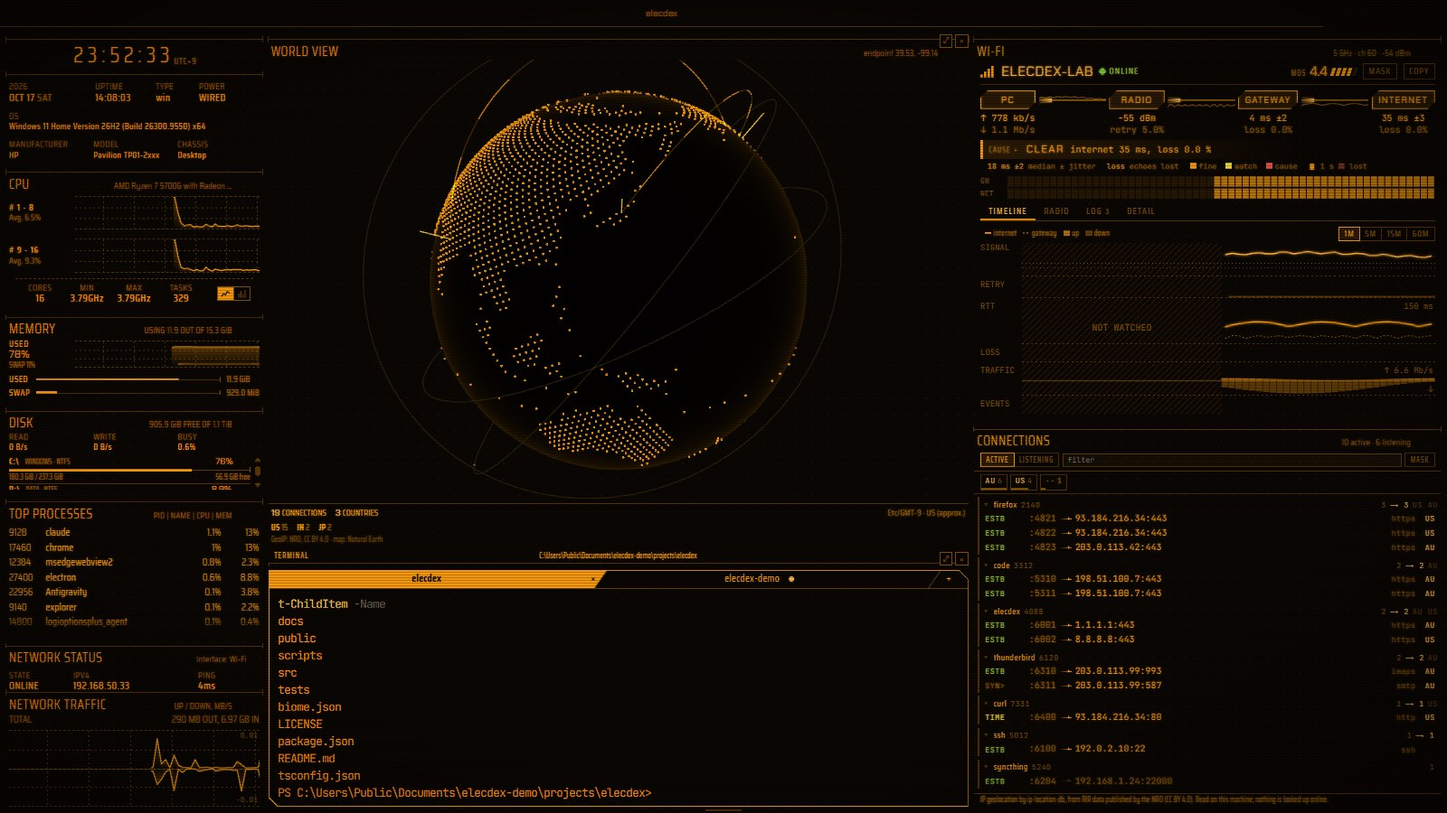
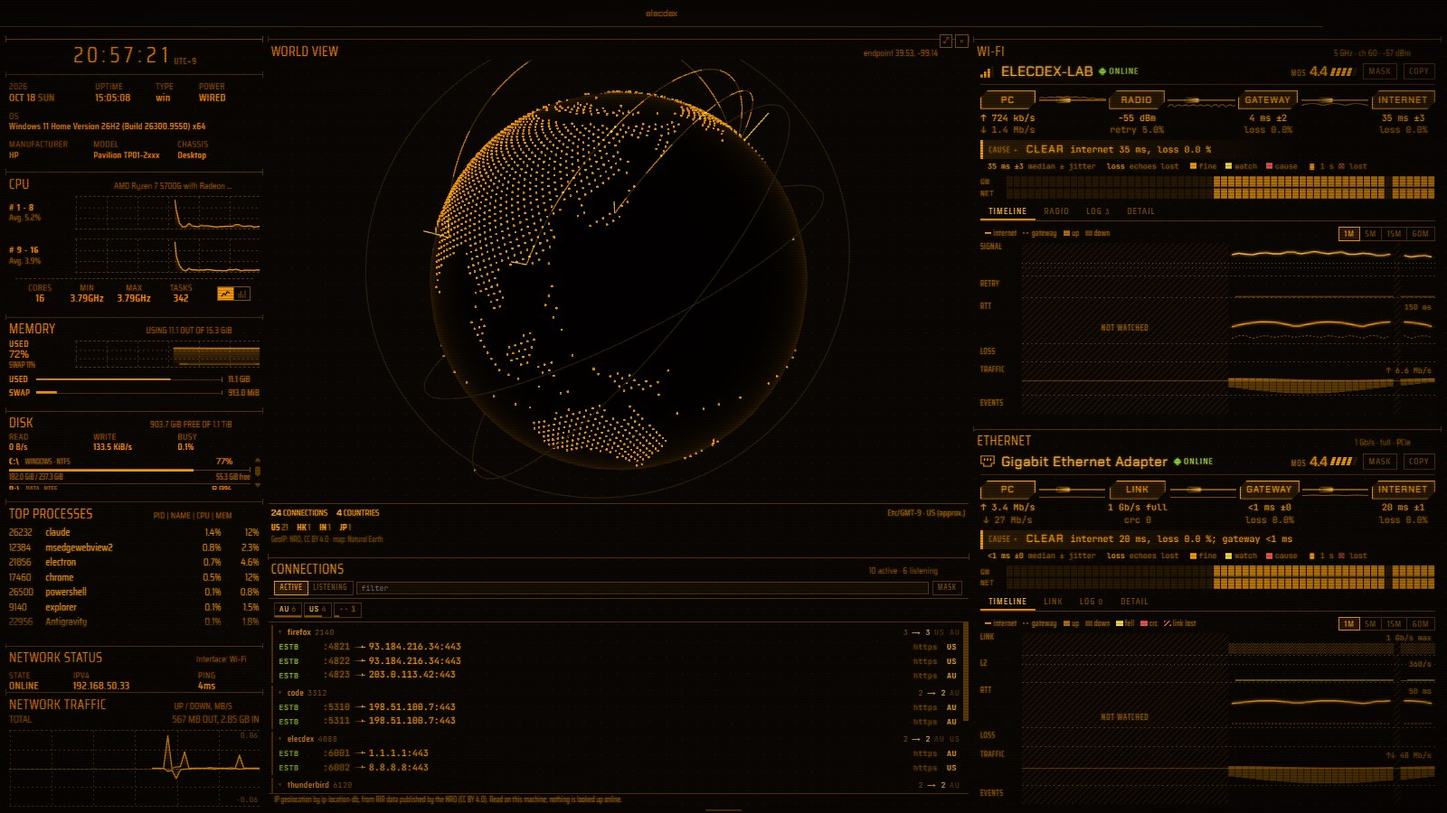
feat(layout): network and cockpit show the Ethernet pane under Wi-Fi / network と cockpit で Wi-Fi の下に Ethernet ペインを置く
The network preset now puts the socket table under the globe, where the shells were, and the Ethernet pane under Wi-Fi, where the socket table was: a preset with no shell. The cockpit preset's right column is Wi-Fi over Ethernet instead of the world view over Wi-Fi. The README's network, cockpit and layouts shots are taken again, the three READMEs and the design notes say so, and the screenshot and demo takes run a made-up wired link so nothing of this machine's adapters is read. / network プリセットは、地球儀の下のシェルの場所にソケットの一覧を、ソケットの一覧の場所に Wi-Fi の下の Ethernet ペインを置く。シェルのないプリセットになる。cockpit の右列は world view と Wi-Fi から Wi-Fi と Ethernet に替えた。README の network・cockpit・LAYOUTS のスクリーンショットを撮り直し、3 つの README と設計書を合わせ、スクリーンショットとデモの撮影ではこの機械のアダプタを読まないよう架空の有線を使う。

diff --git a/src/shared/layout-presets.ts b/src/shared/layout-presets.ts
@@ -62,9 +62,6 @@ function withSystemColumn(stage: LayoutNode[], shares: number[]): LayoutNode {
   )
 }
 
-const shells = (count: number): LayoutNode =>
-  tabs(Array.from({ length: count }, () => pane('terminal')))
-
 export const LAYOUT_PRESETS: readonly LayoutPreset[] = [
   {
     id: 'standard',
@@ -73,17 +70,18 @@ export const LAYOUT_PRESETS: readonly LayoutPreset[] = [
     build: defaultLayoutNode,
   },
   {
-    // The globe over the shells, two to one, in three fifths of the stage; beside
-    // them the Wi-Fi pane over the socket table, half and half (user decision
-    // 2026-09-25). Status and traffic are in the system column already.
+    // The globe over the socket table, two to one, in three fifths of the stage;
+    // beside them the Wi-Fi pane over the Ethernet pane, half and half (user
+    // decisions 2026-09-25, 2026-10-18: the sockets took the shells' place, the
+    // cable theirs). Status and traffic are in the system column already.
     id: 'network',
     name: 'network',
-    description: 'the wireless link, who this machine talks to, and where in the world they are',
+    description: 'both links, who this machine talks to, and where in the world they are',
     build: () =>
       withSystemColumn(
         [
-          split('column', [pane('globe'), shells(2)], [2 / 3, 1 / 3]),
-          split('column', [pane('wifi'), pane('connections')], [0.5, 0.5]),
+          split('column', [pane('globe'), pane('connections')], [2 / 3, 1 / 3]),
+          split('column', [pane('wifi'), pane('ethernet')], [0.5, 0.5]),
         ],
         [0.6, 0.4],
       ),
@@ -207,18 +205,17 @@ export const LAYOUT_PRESETS: readonly LayoutPreset[] = [
   {
     // The machine on one pane where the system column would be, large enough at 1600x900 to lay
     // itself out at its widest with what the machine is and every core, a shell under it, and
-    // beside it the world view over the Wi-Fi pane (user decisions 2026-10-10, 2026-10-18). The
+    // beside it the Wi-Fi pane over the Ethernet pane (user decisions 2026-10-10, 2026-10-18). The
     // one preset without the system column: CLUSTER says what the column does, and more.
     id: 'cockpit',
     name: 'cockpit',
-    description:
-      'the whole machine on one pane, a shell under it, the world and the link beside it',
+    description: 'the whole machine on one pane, a shell under it, both links beside it',
     build: () =>
       split(
         'row',
         [
           split('column', [pane('cluster'), pane('terminal')], [0.75, 0.25]),
-          split('column', [pane('globe'), pane('wifi')], [0.5, 0.5]),
+          split('column', [pane('wifi'), pane('ethernet')], [0.5, 0.5]),
         ],
         [0.7, 0.3],
       ),

diff --git a/tests/e2e/wifi.spec.ts b/tests/e2e/wifi.spec.ts
@@ -93,7 +93,7 @@ test('on a train, names the way out lost, and logs the drops and the change of c
   }
 })
 
-test('the network preset puts the Wi-Fi pane over the socket table, beside the globe over the shells', async () => {
+test('the network preset puts the Wi-Fi pane over the Ethernet pane, beside the globe over the sockets', async () => {
   const { page, close } = await launch(undefined, {
     env: { ELECDEX_SEED_LAYOUTS: '1' },
     settings: { layout: { confirmSwitch: false } },
@@ -103,7 +103,7 @@ test('the network preset puts the Wi-Fi pane over the socket table, beside the g
     // Measured once the layout stands still: while it arrives, each pane powers on
     // scaled from a line (the Wi-Fi pane was once measured at 186x2), which a box
     // taken as soon as the pane is visible caught more often than not.
-    await expect(page.locator('[data-testid=pane][data-widget=wifi]')).toBeVisible({
+    await expect(page.locator('[data-testid=pane][data-widget=ethernet]')).toBeVisible({
       timeout: 20_000,
     })
     await settleLayout(page)
@@ -113,18 +113,19 @@ test('the network preset puts the Wi-Fi pane over the socket table, beside the g
       if (b === null) throw new Error(`${widget} has no box`)
       return b
     }
-    const [globe, terminal, wifi, connections] = [
+    const [globe, connections, wifi, ethernet] = [
       await box('globe'),
-      await box('terminal'),
-      await box('wifi'),
       await box('connections'),
+      await box('wifi'),
+      await box('ethernet'),
     ]
-    // Left: the globe over the shells, two to one. Right: Wi-Fi over sockets, half and half.
-    expect(terminal.y).toBeGreaterThan(globe.y + globe.height - 40)
-    expect(globe.height / terminal.height).toBeGreaterThan(1.6)
-    expect(connections.y).toBeGreaterThan(wifi.y + wifi.height - 40)
-    expect(Math.abs(wifi.height - connections.height)).toBeLessThan(wifi.height * 0.15)
+    // Left: the globe over the sockets, two to one. Right: Wi-Fi over Ethernet, half and half.
+    expect(connections.y).toBeGreaterThan(globe.y + globe.height - 40)
+    expect(globe.height / connections.height).toBeGreaterThan(1.6)
+    expect(ethernet.y).toBeGreaterThan(wifi.y + wifi.height - 40)
+    expect(Math.abs(wifi.height - ethernet.height)).toBeLessThan(wifi.height * 0.15)
     expect(wifi.x).toBeGreaterThan(globe.x + globe.width - 20)
+    await expect(page.locator('[data-testid=pane][data-widget=terminal]')).toHaveCount(0)
   } finally {
     await close()
   }

diff --git a/tests/unit/layout-presets.test.ts b/tests/unit/layout-presets.test.ts
@@ -196,10 +196,22 @@ describe('LAYOUT_PRESETS', () => {
     expect(row('gpu')?.h ?? 0).toBeLessThan((row('elec')?.h ?? 0) / 2)
   })
 
+  it('puts the globe over the sockets in network, beside Wi-Fi over Ethernet, with no shell', () => {
+    // The sockets took the shells' place, and the cable the sockets' (user decision 2026-10-18).
+    const shape = layoutShape(presetTree(presetById('network') as LayoutPreset))
+    const row = (widget: string) => shape.find((r) => r.widget === widget)
+    expect(shape.some((r) => r.widget === 'terminal')).toBe(false)
+    expect(row('connections')?.x).toBe(row('globe')?.x)
+    expect(row('connections')?.y ?? 0).toBeGreaterThan(row('globe')?.y ?? 0)
+    expect(row('ethernet')?.x).toBe(row('wifi')?.x)
+    expect(row('ethernet')?.h).toBe(row('wifi')?.h)
+    expect(row('wifi')?.x ?? 0).toBeGreaterThan(row('globe')?.x ?? 0)
+  })
+
   it('gives cockpit the CLUSTER pane in place of the system column, at its widest with every core', () => {
-    // A shell under CLUSTER (user decision 2026-10-10); on the right the world view over the
-    // Wi-Fi pane (user decision 2026-10-18).
-    expect(places('cockpit')).toEqual([['cluster'], ['terminal'], ['globe'], ['wifi']])
+    // A shell under CLUSTER (user decision 2026-10-10); on the right the Wi-Fi pane over the
+    // Ethernet pane (user decision 2026-10-18).
+    expect(places('cockpit')).toEqual([['cluster'], ['terminal'], ['wifi'], ['ethernet']])
     const shape = layoutShape(presetTree(presetById('cockpit') as LayoutPreset))
     expect(shape.some((r) => LEFT_COLUMN.includes(r.widget))).toBe(false)
     const cluster = shape.find((r) => r.widget === 'cluster')

diff --git a/README.zh-CN.md b/README.zh-CN.md
@@ -60,14 +60,14 @@ elecdex 启动时的默认布局，即页首那张图（Tron）。
 ### network — 这台机器在和谁通信
 
 <p align="center">
-  <img src="./docs/screenshots/elecdex-network.jpg" alt="Amber 主题下的 network 预设：左侧是系统栏，琥珀色的世界视图地球上有弧线连向各连接的去处，下方是一个宽 shell；右侧是 Wi-Fi 窗格，显示一条虚构的链路，从电脑到互联网各段都正常，带一分钟的时间线，以及按程序列出套接字的连接窗格——firefox、code、elecdex、thunderbird、curl、ssh、syncthing">
+  <img src="./docs/screenshots/elecdex-network.jpg" alt="Amber 主题下的 network 预设：左侧是系统栏，琥珀色的世界视图地球上有弧线连向各连接的去处，下方是按程序列出套接字的连接窗格——firefox、code、elecdex、thunderbird；右侧是 Wi-Fi 窗格和其下的 Ethernet 窗格，都显示虚构的链路，从电脑到互联网各段都正常，带一分钟的时间线，有线为 1 Gb/s 全双工">
   <br><sub>network · Amber</sub>
 </p>
 
 - **世界视图与连接** — 一个显示本机连接去向的地球，以及一个按持有程序列出每个 TCP 套接字的
-  窗格，两者都用内置的 GeoIP 数据库定位，不做任何在线查询。地球下方的 shell 供 ping 和
-  traceroute 使用。
-- **Wi-Fi** — 在套接字列表上方，逐段指出无线连接在哪里出了问题（见*窗格*）。
+  窗格，两者都用内置的 GeoIP 数据库定位，不做任何在线查询。套接字列表位于地球下方。
+- **Wi-Fi 与 Ethernet** — 上下排列，逐段指出无线和有线连接在哪里出了问题（见*窗格*）。
+  *（Ethernet 为 unreleased）*
 
 ### earth — 头顶与脚下
 
@@ -158,10 +158,10 @@ elecdex 启动时的默认布局，即页首那张图（Tron）。
   REJECT 或 ABSTAIN，窗格按多数决或全体一致作出决议。席位使用 AI 聊天的提供方——三个席位都用
   同一个模型也可以。
 
-### cockpit — 整台机器放进一个面板，再加上 shell、世界和链路
+### cockpit — 整台机器放进一个面板，再加上 shell 和两条链路
 
 <p align="center">
-  <img src="./docs/screenshots/elecdex-cockpit.jpg" alt="Black 主题（浅色底、近黑文字和扫描线）下的 cockpit 预设：左上方以 CLUSTER 面板取代系统栏——一排警示灯和 ALL SYSTEMS NOMINAL，日期上方的时钟，旁边两排各五个数值：内存、显存、交换区、最满的磁盘、连接对象数、最忙的程序、电源、运行时间、链路累计流量和地址，其下一行是操作系统、制造商、型号、机箱、CPU、虚构的 GPU 和 AWAKE；再下面是 CPU 最近一分钟的折线、十六个核心各一根柱，以及内存、GPU、磁盘 I/O、网络下行与上行和 PING 的折线及其峰值与平均值；其下是一个 shell；右侧上方是向连接对象画出弧线的地球视图，下方是虚构链路的 Wi-Fi 面板">
+  <img src="./docs/screenshots/elecdex-cockpit.jpg" alt="Black 主题（浅色底、近黑文字和扫描线）下的 cockpit 预设：左上方以 CLUSTER 面板取代系统栏——一排警示灯和 ALL SYSTEMS NOMINAL，日期上方的时钟，旁边两排各五个数值：内存、显存、交换区、最满的磁盘、连接对象数、最忙的程序、电源、运行时间、链路累计流量和地址，其下一行是操作系统、制造商、型号、机箱、CPU、虚构的 GPU 和 AWAKE；再下面是 CPU 最近一分钟的折线、十六个核心各一根柱，以及内存、GPU、磁盘 I/O、网络下行与上行和 PING 的折线及其峰值与平均值；其下是一个 shell；右侧上方是 Wi-Fi 面板，下方是 Ethernet 面板，都是虚构的链路">
   <br><sub>cockpit · Black</sub>
 </p>
 
@@ -402,9 +402,9 @@ elecdex 在前台时按下它会把 elecdex 收起；在其他地方按下则把
 像显像管一样断电，新的排布逐个窗格点亮，和启动时一样——减少动效时则完全没有动画。
 
 列表下方有九个**预设**，每个都画成其窗格的小地图：**standard**（默认布局）、
-**network**（地球和 shell，旁边是 Wi-Fi 和连接）、**earth**（ORBIT、地球、地震和天气）、**dev**（AI AGENT；
+**network**（地球下方是连接，旁边是 Wi-Fi，其下是 Ethernet）、**earth**（ORBIT、地球、地震和天气）、**dev**（AI AGENT；
 Docker 和 shell；剪贴板、计时器和 shell；GIT、AI 聊天和 Log Watch——每组都是标签页）、**media**（YouTube (TV)，下方是正在播放、频谱和混音器，X 和 RSS 作为标签页）、
-**desk**（记事、计时器、计算器、任务、日历、剪贴板和实用工具）、**ai**（上下两个 AI 聊天，以及位于 GPU 窗格之上的 ELEC system）、**cockpit**（以 CLUSTER 面板取代系统栏，下方一个 shell，右侧上方是地球视图、下方是 Wi-Fi）以及 **retro**（ELEC-16 和 CHIP-8 作为一个窗格的标签页，下方是 16 段频谱）。除 cockpit 外，每个预设都把系统栏留在左侧，所以切换时换的是
+**desk**（记事、计时器、计算器、任务、日历、剪贴板和实用工具）、**ai**（上下两个 AI 聊天，以及位于 GPU 窗格之上的 ELEC system）、**cockpit**（以 CLUSTER 面板取代系统栏，下方一个 shell，右侧上方是 Wi-Fi、下方是 Ethernet）以及 **retro**（ELEC-16 和 CHIP-8 作为一个窗格的标签页，下方是 16 段频谱）。除 cockpit 外，每个预设都把系统栏留在左侧，所以切换时换的是
 舞台，仪表仍在原处。选择一个预设会用它新建一个布局并切换过去——此后它就是你的布局之一，
 跟随你的工作——再次选择它会回到那个布局，而不会再新建一个；↺ 把它恢复为预设原样。每个预设
 都有自己的按键 Ctrl+Shift+F1 到 F9，在任何地方都能做同样的事。全新安装时，这九个预设会占据

diff --git a/README.md b/README.md
@@ -67,15 +67,15 @@ The arrangement elecdex opens with, in the picture at the top (Tron).
 ### network — who this machine talks to
 
 <p align="center">
-  <img src="./docs/screenshots/elecdex-network.jpg" alt="The network preset in the Amber theme: the system column on the left, the world view globe in amber with arcs to where connections go and a wide shell under it; on the right the Wi-Fi pane on a made-up link, every segment from the PC to the internet clear, with its one-minute timeline, and the connections pane listing sockets by program - firefox, code, elecdex, thunderbird, curl, ssh, syncthing">
+  <img src="./docs/screenshots/elecdex-network.jpg" alt="The network preset in the Amber theme: the system column on the left, the world view globe in amber with arcs to where connections go, and under it the connections pane listing sockets by program - firefox, code, elecdex, thunderbird; on the right the Wi-Fi pane over the Ethernet pane, each on a made-up link with every segment from the PC to the internet clear and a one-minute timeline - the cable at 1 Gb/s full duplex">
   <br><sub>network · Amber</sub>
 </p>
 
 - **World view and connections** — a globe of where the machine's connections go, and a pane
   listing every TCP socket by the program holding it, both placed with a bundled GeoIP database;
-  nothing is looked up online. The shells beneath the globe are there for ping and traceroute.
-- **Wi-Fi** — over the socket table, where the wireless link is failing, segment by segment
-  (see *Panes*).
+  nothing is looked up online. The socket table sits under the globe.
+- **Wi-Fi and Ethernet** — one over the other, where the wireless link and the cable are failing,
+  segment by segment (see *Panes*). *(Ethernet unreleased.)*
 
 ### earth — overhead and underfoot
 
@@ -178,10 +178,10 @@ The arrangement elecdex opens with, in the picture at the top (Tron).
   by majority or unanimity. The seats use the providers of the AI chat - the same model in all
   three will do.
 
-### cockpit — the whole machine on one pane, a shell, the world and the link
+### cockpit — the whole machine on one pane, a shell, and both links
 
 <p align="center">
-  <img src="./docs/screenshots/elecdex-cockpit.jpg" alt="The cockpit preset in the Black theme, near-black on a pale ground with scanlines: the CLUSTER pane in the top left in place of the system column - the lamps in a row with ALL SYSTEMS NOMINAL, the clock over the date, memory, VRAM, swap, the fullest disk, connections, the busiest program, power, uptime, the link's total and the address beside them in two rows of five, a line of the OS, maker, model, chassis, CPU, a made-up GPU and AWAKE, then a minute of CPU as a line, a bar for each of sixteen cores, memory, GPU, disk I/O, network down and up and ping as lines with their peaks and averages - a shell under it; on the right the world view globe with arcs to where connections go, over the Wi-Fi pane on a made-up link">
+  <img src="./docs/screenshots/elecdex-cockpit.jpg" alt="The cockpit preset in the Black theme, near-black on a pale ground with scanlines: the CLUSTER pane in the top left in place of the system column - the lamps in a row with ALL SYSTEMS NOMINAL, the clock over the date, memory, VRAM, swap, the fullest disk, connections, the busiest program, power, uptime, the link's total and the address beside them in two rows of five, a line of the OS, maker, model, chassis, CPU, a made-up GPU and AWAKE, then a minute of CPU as a line, a bar for each of sixteen cores, memory, GPU, disk I/O, network down and up and ping as lines with their peaks and averages - a shell under it; on the right the Wi-Fi pane over the Ethernet pane, each on a made-up link">
   <br><sub>cockpit · Black</sub>
 </p>
 
@@ -453,10 +453,10 @@ off like a tube and the new one comes up pane by pane, as at boot — and not at
 reduced.
 
 Nine **presets** sit under the list, each drawn as a small map of its panes:
-**standard** (the default layout), **network** (the globe and shells, beside Wi-Fi and connections), **earth**
+**standard** (the default layout), **network** (the globe over the connections, beside Wi-Fi over Ethernet), **earth**
 (ORBIT, the globe, quakes and the weather), **dev** (AI AGENT; Docker and a shell; the clipboard, a timer and a shell; GIT, an AI chat and Log Watch - each group as tabs), **media**
 (YouTube (TV) with what is playing, the spectrum and the mixer beneath, X and RSS as tabs) and **desk** (notes, a timer,
-the calculator, tasks, the calendar, the clipboard and the utility pane) **ai** (two AI chats one over the other, and the ELEC system over the GPU pane), **cockpit** (the CLUSTER pane in place of the system column, a shell under it, and the world view over the Wi-Fi pane beside it) and **retro** (the ELEC-16 and the CHIP-8 as tabs of one pane, the spectrum at sixteen bands under them). Every one but cockpit keeps the system column on the left, so a switch
+the calculator, tasks, the calendar, the clipboard and the utility pane) **ai** (two AI chats one over the other, and the ELEC system over the GPU pane), **cockpit** (the CLUSTER pane in place of the system column, a shell under it, and Wi-Fi over Ethernet beside it) and **retro** (the ELEC-16 and the CHIP-8 as tabs of one pane, the spectrum at sixteen bands under them). Every one but cockpit keeps the system column on the left, so a switch
 changes the stage and leaves the instruments where they were. Choosing a preset adds a layout made
 from it and goes there - from then on it is one of your layouts, following your work - and choosing
 it again goes back to that layout rather than adding another; ↺ puts it back to the preset. Each

diff --git a/docs/architecture.md b/docs/architecture.md
@@ -504,8 +504,8 @@ Web ページをペインに表示する。**汎用の Web ウィジェット 1 
 終了時の保存・破損した layouts.json・演出とモーション低減）。
 
 **プリセット**（`shared/layout-presets.ts`、2026-09-24）: 用途別の配置を組み込みで持つ。standard（既定
-レイアウトそのもの）/ network（地球儀・connections を 3:2・シェル）/ earth（ORBIT・地球儀・地震・天気・シェル）/
-dev（AI AGENT、Docker とシェルのタブ、clipboard・timer・シェルのタブを縦に、右に GIT と AI チャットと LOG WATCH のタブ（LOG WATCH は 2026-10-12 追加、§5.21）。前面は見えている間だけ読む Docker と clipboard と、差分に全高が要る GIT。§5.17。2026-10-01 に利用者の指定で組み直した）/ media（YouTube (TV)、その下に now playing・spectrum・mixer、X と RSS のタブ。§5.15）/ desk（3 列: notes の下に timer と calculator、tasks の下に clipboard、calendar の下に utility。シェルなし。clipboard は見えている間だけ読むのでタブに重ねない。§5.14。2026-09-27 に utility を入れるため 2 列から組み直した。§5.16）/ ai（AI チャット 2 つを上下に、右の広い列に ELEC system。§5.7・§5.8。2026-10-01 追加）/ cockpit（左上に CLUSTER、その下にシェル、右に world view と、その下に Wi-Fi。§5.20。2026-10-10 追加、右列は 2026-10-18 にシェル 2 つから変更）/ retro（ELEC-16 と CHIP-8 をタブにした 1 つのペイン、その下に 16 バンドの spectrum。§5.18・§5.19。2026-10-04 追加。2026-10-10 に cockpit の後ろ、最後へ）の 9 つ。cockpit 以外は既定の左カラム（システム列）を同じ幅・同じ高さで
+レイアウトそのもの）/ network（地球儀の下に connections を 2:1、右に Wi-Fi の下に ETHERNET を 1:1。2026-10-18 にシェルを connections に、connections を ETHERNET に替えた。シェルのないプリセット）/ earth（ORBIT・地球儀・地震・天気・シェル）/
+dev（AI AGENT、Docker とシェルのタブ、clipboard・timer・シェルのタブを縦に、右に GIT と AI チャットと LOG WATCH のタブ（LOG WATCH は 2026-10-12 追加、§5.21）。前面は見えている間だけ読む Docker と clipboard と、差分に全高が要る GIT。§5.17。2026-10-01 に利用者の指定で組み直した）/ media（YouTube (TV)、その下に now playing・spectrum・mixer、X と RSS のタブ。§5.15）/ desk（3 列: notes の下に timer と calculator、tasks の下に clipboard、calendar の下に utility。シェルなし。clipboard は見えている間だけ読むのでタブに重ねない。§5.14。2026-09-27 に utility を入れるため 2 列から組み直した。§5.16）/ ai（AI チャット 2 つを上下に、右の広い列に ELEC system。§5.7・§5.8。2026-10-01 追加）/ cockpit（左上に CLUSTER、その下にシェル、右に Wi-Fi と、その下に ETHERNET。§5.20。2026-10-10 追加、右列は 2026-10-18 にシェル 2 つから world view と Wi-Fi に、同じ日に Wi-Fi と ETHERNET に変更）/ retro（ELEC-16 と CHIP-8 をタブにした 1 つのペイン、その下に 16 バンドの spectrum。§5.18・§5.19。2026-10-04 追加。2026-10-10 に cockpit の後ろ、最後へ）の 9 つ。cockpit 以外は既定の左カラム（システム列）を同じ幅・同じ高さで
 左端に持つので、切り替えると計器盤はそのままで右の舞台だけが替わって見える。cockpit だけは、CLUSTER が列の役目を果たすので列を持たない（2026-10-10、利用者の決定。`WITH_SYSTEM_COLUMN`）。名前は ORBIT ペインと重ならない
 ように earth にした（利用者の判断）。
 
@@ -1533,7 +1533,7 @@ PowerToys のような小さな道具を 1 枚のペインにまとめる（2026
 
 有線で繋いでいるとき、どこで問題が起きているかを示す（2026-10-18、利用者の依頼）。Wi-Fi ペイン（§5.12）の有線版で、
 目的も同じ：通話や配信の品質が悪いとき、自分か、ケーブル・ポート・アダプタか、ルーターか、回線かを切り分ける。
-ピッカー名は "Ethernet status"、見出しは ETHERNET。既定のレイアウトにもプリセットにも入れない。見た目のたたき台は
+ピッカー名は "Ethernet status"、見出しは ETHERNET。既定のレイアウトには入れず、network プリセット（Wi-Fi の下）と cockpit プリセット（右列の下）に入れる（2026-10-18、利用者の決定）。見た目のたたき台は
 モック [ethernet-mock/index.html](ethernet-mock/index.html)（16 の場合、3 つの大きさ、5 つのテーマ。Wi-Fi ペインの
 実画面 ref-wifi-*.png と並べて、UX の統一・有線の診断・見た目の規約の 3 つの観点でレビューして直した）。
 

diff --git a/docs/decisions.md b/docs/decisions.md
@@ -402,3 +402,4 @@
 | ETHERNET ペイン（2026-10-18、利用者の依頼と決定） | Wi-Fi ペインとは別のペインにし（利用者の決定。LINK ペインへの統合は採らない）、経路の帯・説明カード・統計と判定の共通部分（shared/netpath.ts、widgets/netpath/）を Wi-Fi と共有する。設計とモックは Wi-Fi との UX の統一・有線の診断・見た目の規約の 3 つの観点でレビューして直した（architecture.md §5.23）。有線のアダプタは `GetIfTable2` の Type 6・802.3・HardwareInterface・非 Filter で選ぶ（この PC で .NET が Ethernet と呼ぶ 19 行から物理 1 枚）。二重・バス・ドライバ・詳細設定はサンプラーの中の別ランスペースで読む（`Get-NetAdapter` の冷えた 1 回目 1,413 ms、`Get-NetAdapterAdvancedProperty` 1,298 ms → 2 回目 29 ms）。C# とその台本はサンプラーの環境変数で渡す（入れたらスクリプトが 37,253 文字になり 32,767 を超えた。今 30,923）。OS のログは読まない（有線の断をメーカーによらず書くログがない）。プラグインには出さない。判定のしきい値（CRC は件数と割合、断 2 / 4、嵐 300 / 3000、ゲートウェイ 5 / 20 ms）はケーブルを挿した実機で測るまで仮のもの。NDIS の WMI イベントと Tcpip 4199 は実機で確かめてから |
 | ゲートウェイへの往復をアダプタ自身から（2026-10-18） | サンプラーの `probe` がゲートウェイへの往復を `IcmpSendEcho2Ex` で各アダプタの IPv4 を送信元にして同時に打つ（C# が使えないときだけ従来の .NET `Ping`）。Linux / macOS の常駐 ping も `-I` / `-S`。.NET の `Ping` は送信元を選べず、Wi-Fi と有線が同じルーターに繋がっていると、往復は既定の経路の側だけを通り、両方の値として数えられていた。この PC の Wi-Fi で送信元つきの往復が <1 ms、5 回で 36 ms |
 | ネットワークのペインの canvas に文字を描かない（2026-10-18） | Wi-Fi ペインのタイムラインのレーン名・目盛り・NOT WATCHED・イベントの記号と、リボンの GW / NET は canvas に 8〜10px で描いていて、型の段の下限（`--step--2`）を割り、説明カードも付けられなかった。どれも canvas の上の HTML にし、描画関数はその位置を返すだけにした（labels は変わったときだけ state に入れる）。凡例の例の数値を実データに（`18 ms ±2` の固定だった）、切れているときの副題をアダプタ名に（バッジと同じ語を二度言っていた） |
+| network と cockpit に ETHERNET（2026-10-18、利用者の決定） | network は地球儀の下のシェルを connections に、右の connections を ETHERNET に替え、Wi-Fi の下に ETHERNET を同じ高さで置く（シェルのないプリセットになる）。cockpit の右列は world view と Wi-Fi から Wi-Fi と ETHERNET に。README のスクリーンショット（network、cockpit、LAYOUTS）を撮り直し、撮影の環境に `ELECDEX_ETHER_STUB=demo` を足した |
